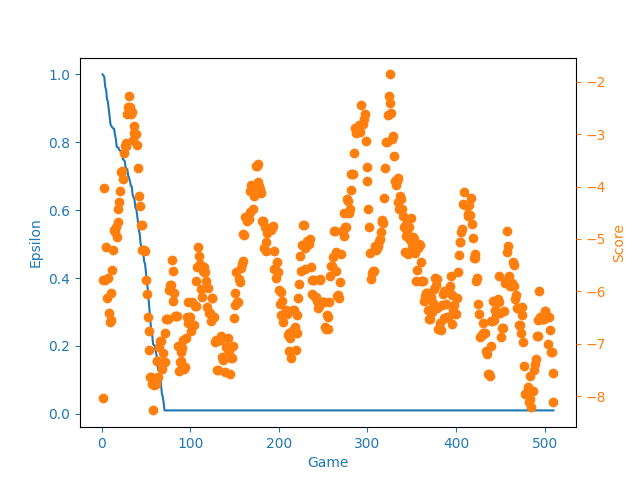
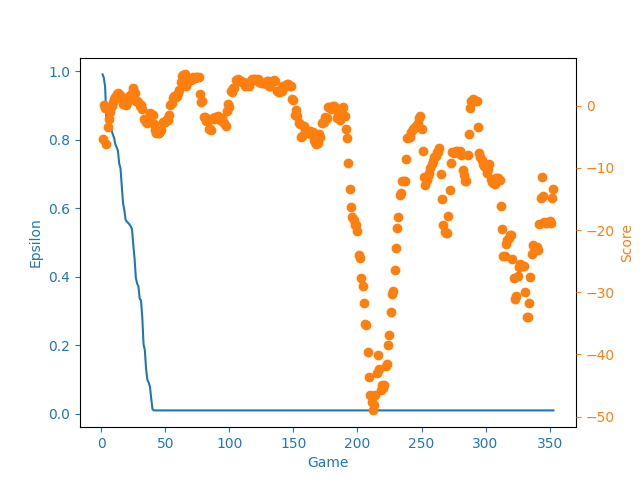
ran some tests and working on a second agent

diff --git a/obj/vehicle.py b/obj/vehicle.py
@@ -71,15 +71,18 @@ class Vehicle:
         conn.close()
         self.sumo = traci.getConnection(self.label)     
         self.min,self.max,self.diff=getMinMax(self._net)
-        self.new_lane=random.choice(list(self.index_dict.keys()))
-        # print("Start From: " + self.new_lane)
-        
-        self.sumo.vehicle.changeTarget("1",edgeID=self.new_lane)
-        self.sumo.vehicle.moveTo("1",self.new_lane+"_0",5)
+       
         
         
         
         pass
+    
+    def random_relocate(self):
+         self.new_lane=random.choice(list(self.index_dict.keys()))
+        #  print("Start From: " + self.new_lane)       
+         self.sumo.vehicle.changeTarget("1",edgeID=self.new_lane)
+         self.sumo.vehicle.moveTo("1",self.new_lane+"_0",5)
+         return
     
     def get_start_lane(self):
         return self.new_lane
@@ -95,7 +98,7 @@ class Vehicle:
         
     def set_destination(self,action):
         self.sumo = traci.getConnection(self.label) 
-        print("Action: "+str(action))
+        # print("Action: "+str(action))
         if action==0:
             action=LEFT
         elif action == 1:
@@ -103,35 +106,35 @@ class Vehicle:
         elif action == 2:
             action==RIGHT
             
-        print("Action: "+str(action))
+        # print("Action: "+str(action))
             
         if action != None:
             self.choice=action
             self.current_lane=self.sumo.vehicle.getLaneID("1")
             self.cur_loc=self.current_lane.partition("_")[0]
-            print("Current Lane: "+self.cur_loc)
+            # print("Current Lane: "+self.cur_loc)
             if self.cur_loc in self.out_dict:
                 self.choice_dic=self.out_dict[self.cur_loc]
                 self.flag=self.choice_dic.get(action)
-                print("Flag: "+str(self.flag))
+                # print("Flag: "+str(self.flag))
             if (self.choice == RIGHT)and(RIGHT in self.choice_dic) :
                     self.flag=self.choice_dic.get(self.choice)
                     self.make_choice=False
                     self.sumo.vehicle.changeTarget("1",self.flag)
-                    print("Right")
+                    # print("Right")
                     
                     
             elif (self.choice == STRAIGHT) and(STRAIGHT in self.choice_dic):
                     self.flag=self.choice_dic.get(self.choice)
                     self.make_choice=False
                     self.sumo.vehicle.changeTarget("1",self.flag)
-                    print("Straight")
+                    # print("Straight")
                     
             elif (self.choice == LEFT)and(LEFT in self.choice_dic):
                     self.flag=self.choice_dic.get(self.choice)
                     self.make_choice=False
                     self.sumo.vehicle.changeTarget("1",self.flag)
-                    print("Left")
+                    # print("Left")
         
         
         

diff --git a/DQN/Agent2.py b/DQN/Agent2.py
@@ -1,0 +1,60 @@
+import torch as T
+import torch.nn as nn
+import torch.nn.functional as F
+import torch.optim as optim
+import numpy as np
+from DQN.DQNetwork import DQN
+from DQN.ReplayMemory import ReplayMemory
+import math 
+import random
+
+
+BATCH_SIZE = 128
+GAMMA = 0.99
+EPS_START = 0.9
+EPS_END = 0.05
+EPS_DECAY = 1000
+TAU = 0.005
+LR = 1e-4
+
+class Agent2:
+    
+    def __init__(self,n_observations,n_actions) -> None:
+        
+        
+        self.device = T.device("cuda" if T.cuda.is_available() else "cpu")
+        self.policy_net = DQN(n_observations, n_actions).to(self.device)
+        self.target_net = DQN(n_observations, n_actions).to(self.device)
+        self.target_net.load_state_dict(self.policy_net.state_dict())
+        optimizer = optim.AdamW(self.policy_net.parameters(), lr=LR, amsgrad=True)
+        memory = ReplayMemory(10000)
+        pass
+    
+    
+    
+    
+    
+
+
+
+
+
+    def select_action(self,state):
+        global steps_done
+        sample = random.random()
+        eps_threshold = EPS_END + (EPS_START - EPS_END) * \
+            math.exp(-1. * steps_done / EPS_DECAY)
+        steps_done += 1
+        if sample > eps_threshold:
+            with T.no_grad():
+                # t.max(1) will return the largest column value of each row.
+                # second column on max result is index of where max element was
+                # found, so we pick action with the larger expected reward.
+                return self.policy_net(state).max(1)[1].view(1, 1)
+        else:
+            return T.tensor([[T.action_space.sample()]], device= self.device, dtype=T.long)
+    
+    
+
+
+

diff --git a/DQN/DQNetwork.py b/DQN/DQNetwork.py
@@ -1,0 +1,40 @@
+import gymnasium as gym
+import math
+import random
+import matplotlib
+import matplotlib.pyplot as plt
+
+from itertools import count
+
+import torch
+import torch.nn as nn
+import torch.optim as optim
+import torch.nn.functional as F
+
+env = gym.make("CartPole-v1")
+
+is_ipython = 'inline' in matplotlib.get_backend()
+if is_ipython:
+    from IPython import display
+
+plt.ion()
+
+# if GPU is to be used
+device = torch.device("cuda" if torch.cuda.is_available() else "cpu")
+
+    
+    
+class DQN(nn.Module):
+
+    def __init__(self, n_observations, n_actions):
+        super(DQN, self).__init__()
+        self.layer1 = nn.Linear(n_observations, 128)
+        self.layer2 = nn.Linear(128, 128)
+        self.layer3 = nn.Linear(128, n_actions)
+
+    # Called with either one element to determine next action, or a batch
+    # during optimization. Returns tensor([[left0exp,right0exp]...]).
+    def forward(self, x):
+        x = F.relu(self.layer1(x))
+        x = F.relu(self.layer2(x))
+        return self.layer3(x)

diff --git a/envs/env.py b/envs/env.py
@@ -127,10 +127,11 @@ class Basic(gym.Env):
         done=False
         self.no_choice=False
         # info={}
-        self.start_lane=self.vehicle.get_start_lane()
+        # self.start_lane=self.vehicle.get_start_lane()
+        self.lane=self.sumo.vehicle.getLaneID("1")
         self.out_dict =self.vehicle.get_out_dict()  
         
-        return state, self.no_choice, self.start_lane, self.out_dict
+        return state, self.no_choice,self.lane, self.out_dict
         
         
         
@@ -161,13 +162,15 @@ class Basic(gym.Env):
         state=np.array([])
         state=np.append(state,self.vloc)
         state=np.append(state,self.ploc)
-        reward=0
+        
         done=False
         self.no_choice=False
         info={}
         if self.vedge==self.pedge:
-            reward=1
+            reward=10
             done=True
+        else:
+            reward=0
         if oldvedge==self.vedge:
             
             self.no_choice=True

diff --git a/test4.py b/test4.py
@@ -8,13 +8,15 @@ EPISODES=1000
 SHOW_EVERY=100
 STEPS=8000
 DISCOUNT = 0.99
-epsilon = 1.0  # not a constant, going to be decayed
-EPSILON_DECAY = 0.99975
+epsilon = 1.0  
+EPSILON_DECAY = 1000 #new decay
 MIN_EPSILON = 0.01
+LEARNING_RATE=0.0001
+BATCH_SIZE=64
 
 
 env = Basic("nets/3x3/3x3.net.xml","nets/3x3/3x3.rou.xml")
-agent = Agent(gamma=0.99, epsilon=1.0, batch_size=64, n_actions=3, eps_end=0.01, input_dims=[4], lr=0.003)
+agent = Agent(gamma=DISCOUNT, epsilon=epsilon, batch_size=BATCH_SIZE, n_actions=3, eps_end=MIN_EPSILON, input_dims=[4], lr=LEARNING_RATE,eps_dec=EPSILON_DECAY)
 scores,eps_history=[],[]
 
 count=0

diff --git a/DQN/ReplayMemory.py b/DQN/ReplayMemory.py
@@ -1,0 +1,22 @@
+from collections import namedtuple, deque
+import random
+
+
+Transition = namedtuple('Transition',
+                        ('state', 'action', 'next_state', 'reward'))
+
+
+class ReplayMemory(object):
+
+    def __init__(self, capacity):
+        self.memory = deque([], maxlen=capacity)
+
+    def push(self, *args):
+        """Save a transition"""
+        self.memory.append(Transition(*args))
+
+    def sample(self, batch_size):
+        return random.sample(self.memory, batch_size)
+
+    def __len__(self):
+        return len(self.memory)

diff --git a/test2.py b/test2.py
@@ -8,13 +8,13 @@ EPISODES=1000
 SHOW_EVERY=100
 STEPS=8000
 DISCOUNT = 0.99
-epsilon = 1.0  # not a constant, going to be decayed
-EPSILON_DECAY = 0.99975
+epsilon = 1.0  
+EPSILON_DECAY = 0.99975 #new decay
 MIN_EPSILON = 0.01
 
 
 env = Basic("nets/3x3/3x3.net.xml","nets/3x3/3x3.rou.xml")
-agent = Agent(gamma=0.99, epsilon=1.0, batch_size=64, n_actions=3, eps_end=0.01, input_dims=[4], lr=0.003)
+agent = Agent(gamma=0.99, epsilon=1.0, batch_size=64, n_actions=3, eps_end=0.01, input_dims=[4], lr=0.1)
 scores,eps_history=[],[]
 
 count=0

diff --git a/test3.py b/test3.py
@@ -8,13 +8,13 @@ EPISODES=1000
 SHOW_EVERY=100
 STEPS=8000
 DISCOUNT = 0.99
-epsilon = 1.0  # not a constant, going to be decayed
-EPSILON_DECAY = 0.99975
+epsilon = 1.0  
+EPSILON_DECAY = 1000 #new decay
 MIN_EPSILON = 0.01
 
 
 env = Basic("nets/3x3/3x3.net.xml","nets/3x3/3x3.rou.xml")
-agent = Agent(gamma=0.99, epsilon=1.0, batch_size=64, n_actions=3, eps_end=0.01, input_dims=[4], lr=0.003)
+agent = Agent(gamma=0.99, epsilon=1.0, batch_size=64, n_actions=3, eps_end=0.01, input_dims=[4], lr=0.01)
 scores,eps_history=[],[]
 
 count=0

diff --git a/obj/person.py b/obj/person.py
@@ -65,7 +65,7 @@ class Person:
         self.sumo = traci.getConnection(self.label) 
         self.ppos=self.sumo.person.getPosition(self.person_id)
         self.ppos=translate(self.ppos[0],self.min,self.max,0,100),translate(self.ppos[1],self.min,self.max,0,100)
-        print(self.ppos)
+        # print(self.ppos)
         
         return self.ppos
         
